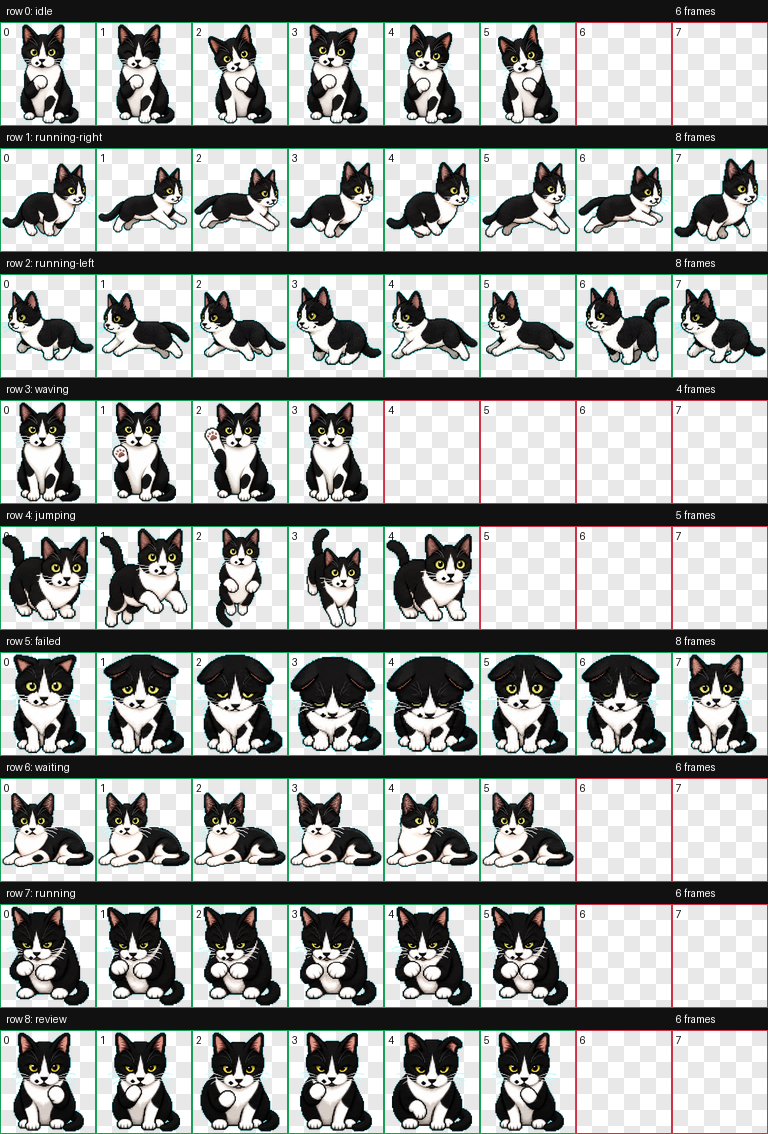
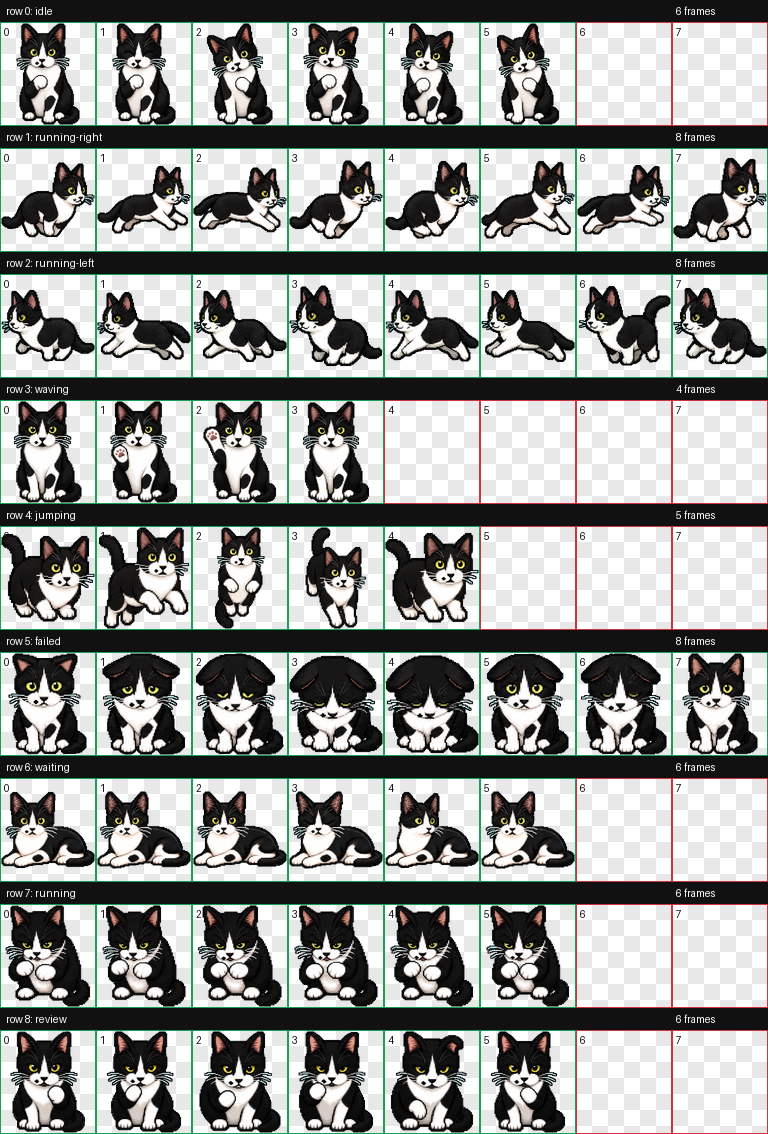
Switch pet atlas to outlined PNG

diff --git a/README.md b/README.md
@@ -50,7 +50,7 @@ cp -R fufu ~/.codex/pets/
 ```text
 ~/.codex/pets/fufu/
   pet.json
-  spritesheet.webp
+  spritesheet.png
 ```
 
 4. 重启或刷新 Codex。
@@ -71,7 +71,7 @@ cp -R fufu-codex-pet/fufu ~/.codex/pets/
 ```text
 fufu/
   pet.json           # Codex 宠物配置
-  spritesheet.webp   # 8 x 9 动画图集
+  spritesheet.png    # 8 x 9 透明 PNG 动画图集
 assets/
   preview-contact-sheet.png
 ```